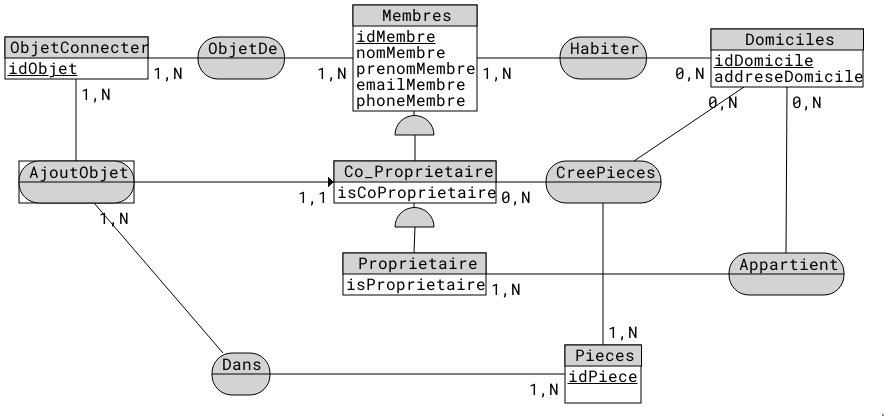
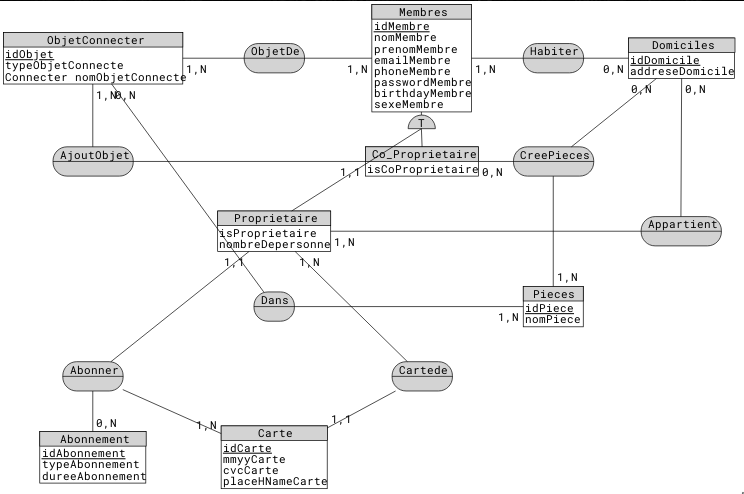
🚀 Mise à jour contenu

diff --git a/README.md b/README.md
@@ -4,7 +4,7 @@
 
 
 
-# 1 Analyse de la diagramme des cas utilistion
+# 1 Analyse de la diagramme des cas utilisation
 
 <img src="./assets/img/Jarvis_usecase.png">
 
@@ -58,3 +58,29 @@ Elle sont Marqué dans la section 1.2
 
 # 2 MCD 
 <img src="./assets/img/Jarvis_mcd.png">
+
+## 2.1 Liste des Entintés et leurs propriété respéctives
+
+* Membre
+* Co-proprietaire
+* ProPrietaire
+* ObjetConnecter
+* Abonnement
+* Carte
+* Piece
+* Domicile
+
+
+## 2.2 Les associations entre divers Entités
+
+* **Membre** :
+	* _Habiter_ dans un **Domicile**
+	* _Avoir_ un **ObjetConnecter**
+* **Co-Proprietaire** :
+	* _Cree_ **Piece** dans un *Domicile*
+	* _AjouterObjetConncter_ dans une **Piece**
+
+* **Proprietaire**:
+	* _Propritaire_ (Appartien) d'un **Domicile**
+	* _Abonner_ a un **Abonnement**
+	* _Avoir_(carte de) **Carte**
